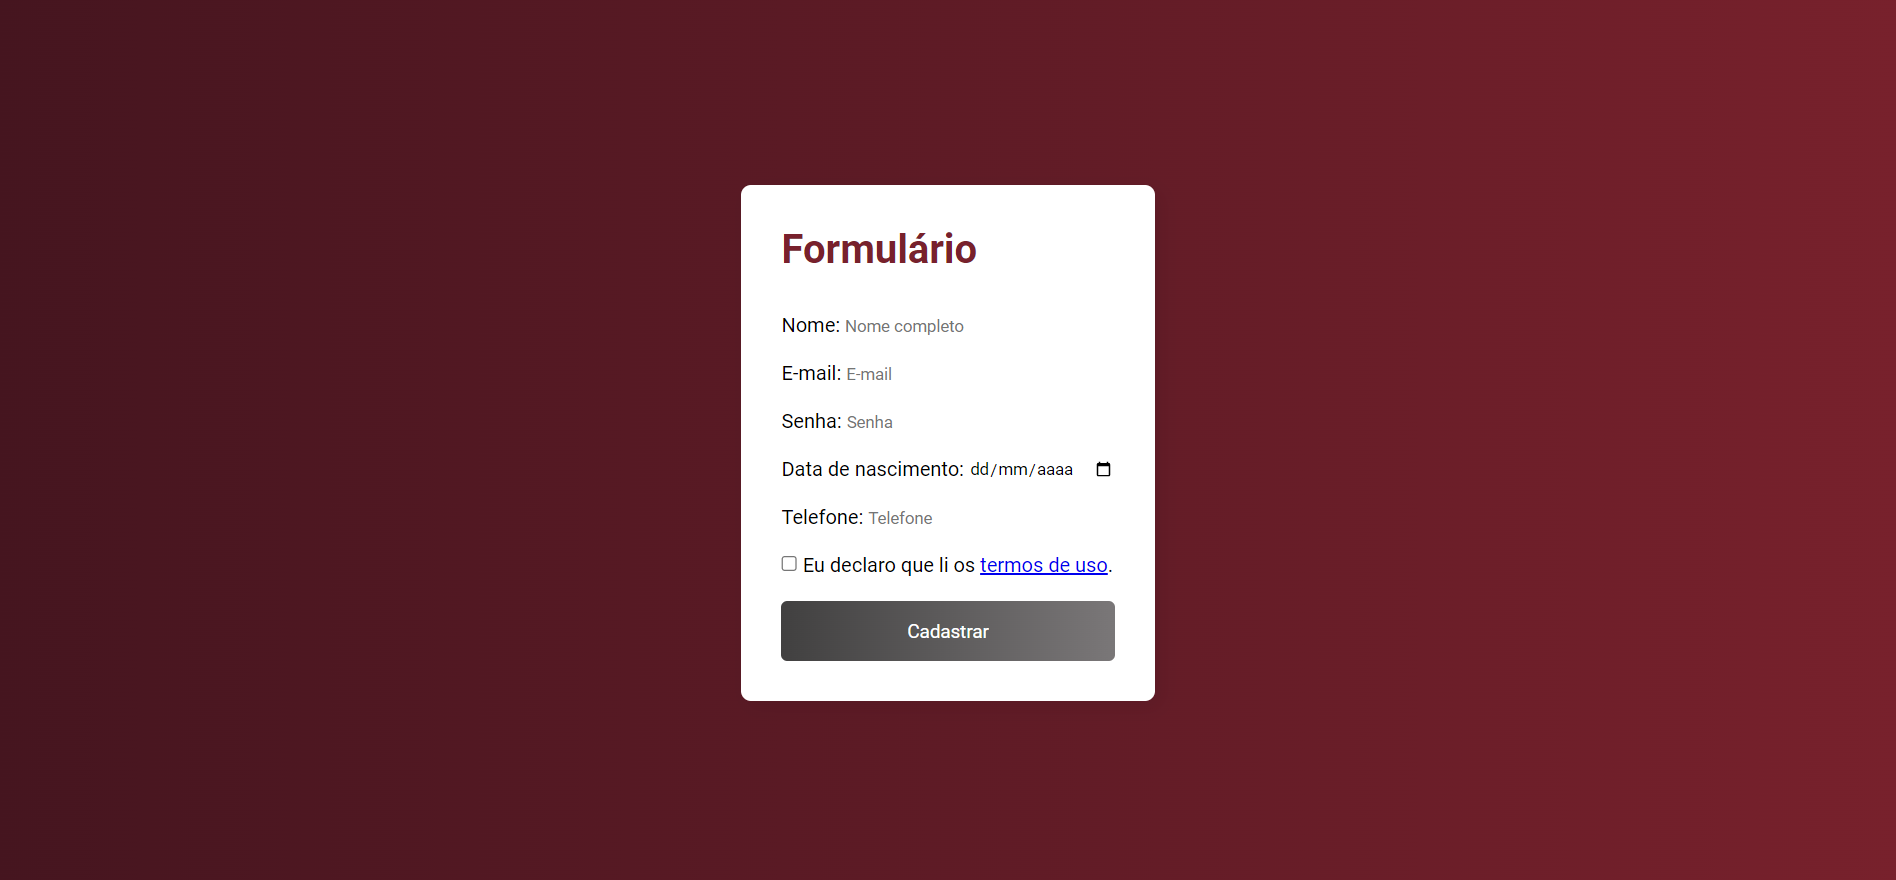
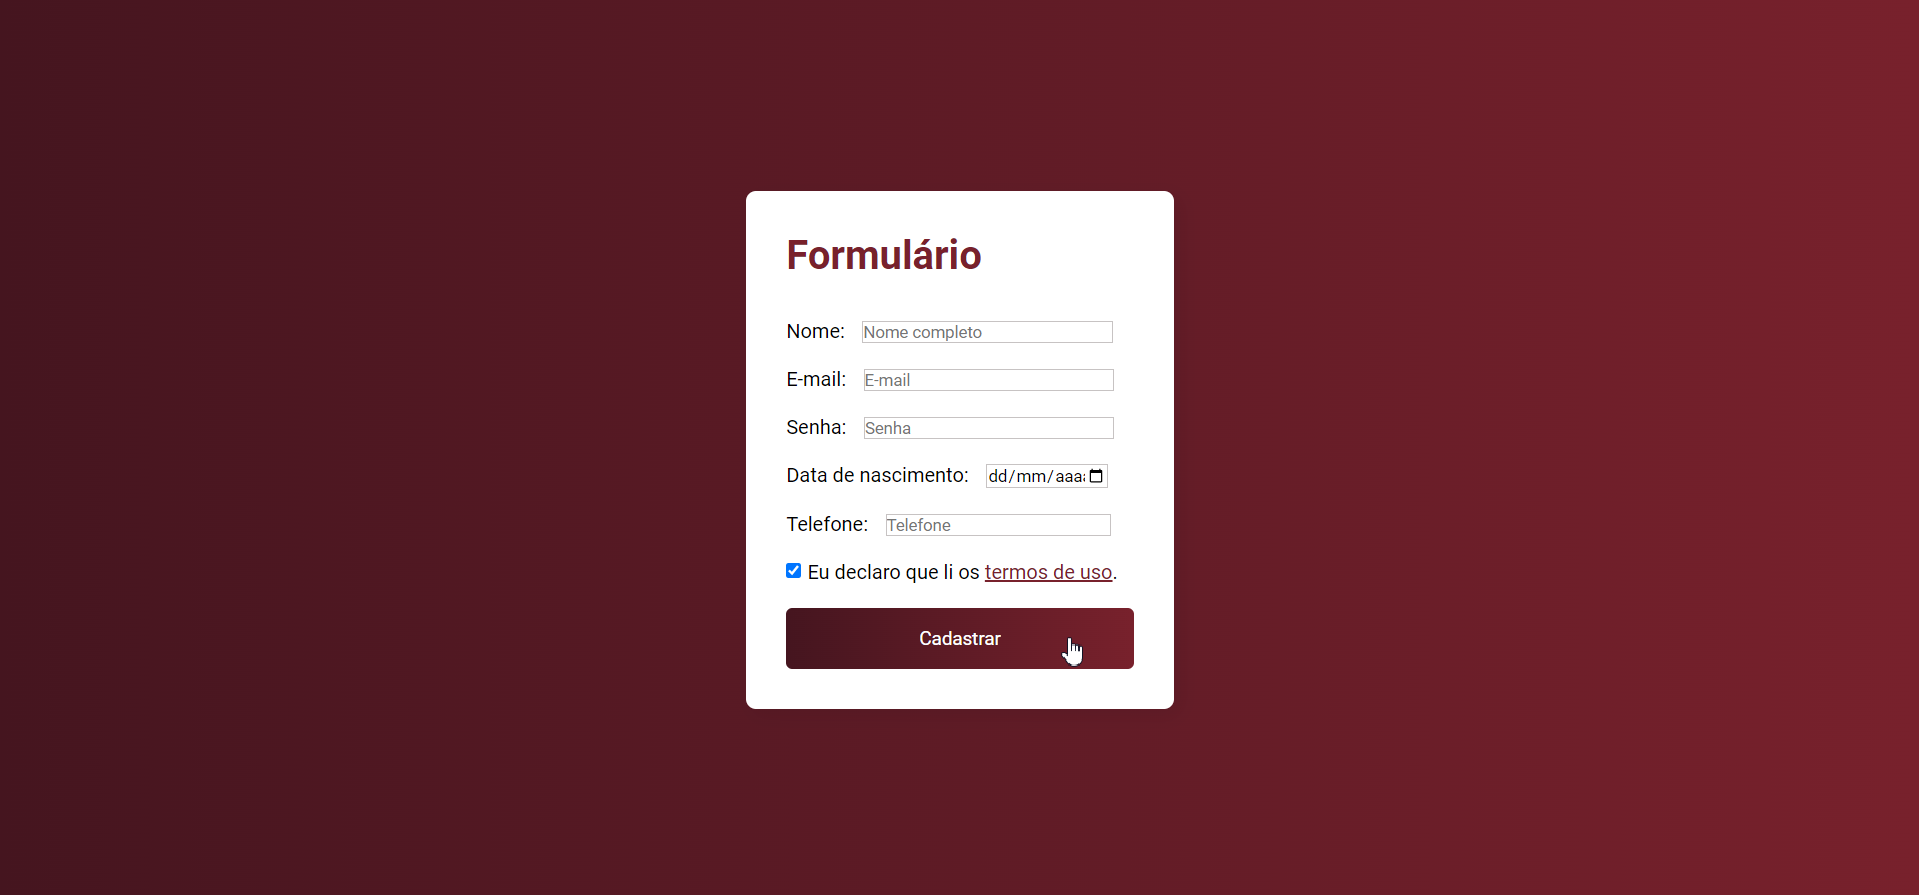
Alteracoes finais

diff --git a/index.html b/index.html
@@ -30,31 +30,41 @@
         <h1> Formulário </h1>
 
         <div class="inputBox">
-            <label for="name"> Nome: </label>
+            <label for="name"> 
+                Nome: 
+            </label>
             <input type="text" name="name" placeholder="Nome completo" />
         </div>    
             <br/> 
 
         <div class="inputBox">
-            <label for="email"> E-mail: </label>
+            <label for="email"> 
+                E-mail: 
+            </label>
             <input type="email" name="email" placeholder="E-mail" />
         </div>
             <br/> 
 
         <div class="inputBox">
-            <label for="password"> Senha: </label>
+            <label for="password"> 
+                Senha: 
+            </label>
             <input type="password" name="password" placeholder="Senha" />
         </div>
             <br/> 
 
         <div class="inputBox">
-            <label for="birthday"> Data de nascimento: </label>
+            <label for="birthday"> 
+                Data de nascimento: 
+            </label>
             <input type="date" name="birthday">
         </div>
             <br/> 
         
         <div class="inputBox">
-            <label for="tel"> Telefone: </label>
+            <label for="tel"> 
+                Telefone:
+             </label>
             <input type="tel" name="tel" placeholder="Telefone" />
         </div>
             <br/> 
@@ -62,7 +72,7 @@
         <div class="inputBox">
             <label>
                 <input type="checkbox" />
-                Eu declaro que li os <a href="paginas/termos.html"> termos de uso</a>.
+                Eu declaro que li os <a href="paginas/termos.html" target="_blank" class="terms"> termos de uso</a>.
             </label>
         </div>
             <br/> 

diff --git a/main.css b/main.css
@@ -28,7 +28,25 @@ main.container {
     position: relative;
 }
 
+.inputBox [type=text], [type=email], [type=password], [type=date], [type=tel] {
+    outline: 0;
+    border:1px solid rgb(199, 195, 195);
+    margin-left: 10px;
+    width:72%;
+    align-items: end;
+}
 
+.inputBox [type=date] {
+    width: 35%;
+}
+
+.inputBox [type=tel] {
+    width: 65%;
+}
+
+.terms {
+    color:#78212c;
+}
 
 #submit {
     background-image: linear-gradient(to right, #414040, #7a7778);
